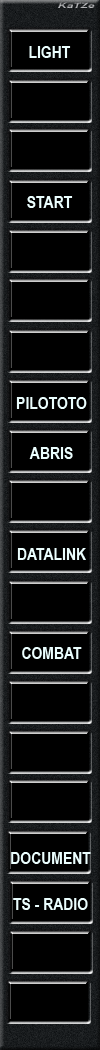
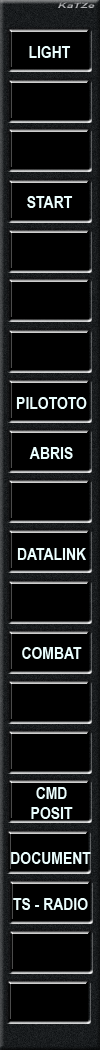
DC implementation + New Pilototo

Changed region(s): [[0.3, 0.7314, 0.66, 0.7924], [0.66, 0.7619, 0.72, 0.7924]]

diff --git a/Ka50-Pit.html b/Ka50-Pit.html
@@ -76,18 +76,18 @@
 	</map>
 
 	<!-- Voyants d'Alarme -->
-	<SPAN style="position: absolute; left: 6px; top: 32px; width: 90px; height: 80px">
+	<SPAN style="position: absolute; left: 4px; top: 25px; width: 90px; height: 80px">
 	<img src="images/emergency/E_AlarmOn.gif" width="90" height="80"  id="VE_Alarm" usemap="#alarm">
-	<map name="alarm">	<area shape="rect" coords="0,0,100,120" href="javascript:CmdSioc(144)"> </map>
+	<map name="alarm">	<area shape="rect" coords="0,0,100,120" href="javascript:CmdDCSRaw('51400101')"> </map>
 	</SPAN> 
 
 		<!-- Voyants de connection KaTZ-Link -->
 	<SPAN style="position: absolute; left: 10px; top: 380px">
-	<img src="images/emergency/z_Led-Rouge.gif" width="80" height="40" id="Led_Connect"> </SPAN>
+	<img src="images/emergency/z_Led-Rouge.png" width="80" height="40" id="Led_Connect"> </SPAN>
 	
 		<!-- Voyants de connection DCS Focus -->
 	<SPAN style="position: absolute; left: 10px; top: 690px">
-	<img src="images/emergency/z_Led-Verte.gif" width="80" height="40"  id="Led_DCS"> 	</SPAN>
+	<img src="images/emergency/z_Led-Bleu.png" width="80" height="40"  id="Led_DCS"> 	</SPAN>
 
 	<!-- Zone d'affichage de l'adresse IP -->
 	<SPAN style="position: absolute; left: 05px; top: 555px; width: 90px; height: 25px ; color:green ; text-align:center; font-size:80%" id="IP_Host"> </SPAN>
@@ -119,7 +119,7 @@
 		<area shape="rect" coords="10,620,90,680" href="javascript:menu_Toggle('Combat')">
 		<area shape="rect" coords="10,680,90,720" href="javascript:menu_Toggle('Vierge')">
 		<area shape="rect" coords="10,720,90,780" href="javascript:menu_Toggle('Vierge')">
-		<area shape="rect" coords="10,780,90,820" href="javascript:menu_Toggle('Vierge')">
+		<area shape="rect" coords="10,780,90,820" href="javascript:menu_Toggle('Stick')">
 		<area shape="rect" coords="10,820,90,880" href="javascript:menu_Toggle('Doc')">
 		<area shape="rect" coords="10,880,90,920" href="javascript:menu_Toggle('Radio_360')">
 		<area shape="rect" coords="10,920,90,980" href="javascript:menu_Toggle('Vierge')">
@@ -339,6 +339,34 @@
 	<img src="images/engine/FT_Aiguille_R.png" width="25" height="250" id="AIG_Fuel_R">
 	</SPAN>	
 	
+</div>
+
+<div id="Panel_Stick">
+
+	<img src="images/panel/Stick_Panel.png" width="300" height="300"  > 
+
+	<!-- Indic Stick -->
+	<SPAN style="position: absolute; left: 160px; top: 120px; width: 20px; height: 20px">
+	<img src="images/panel/Stick_posit.png" width="20" height="20" id="Position_Stick">
+	</SPAN>	
+
+	<!-- Indic Rudder -->
+	<SPAN style="position: absolute; left: 160px; top: 240px; width: 20px; height: 20px">
+	<img src="images/panel/Stick_posit.png" width="20" height="20" id="Position_Rudder">
+	</SPAN>	
+
+	<!-- Indic Cyclic -->
+	<SPAN style="position: absolute; left: 25px; top: 220px; width: 20px; height: 20px">
+	<img src="images/panel/Stick_posit.png" width="20" height="20" id="Position_Cyclic">
+	</SPAN>	
+
+	<!-- Valeur Input Pitch/Roll/Rudder/Cyclic -->
+	<SPAN style="position: absolute; left: 145px; top: 5px; width: 50px; height: 25px ; font-size:1.2em" id="PosData_Pitch"> </SPAN>
+	<SPAN style="position: absolute; left: 260px; top: 117px; width: 50px; height: 25px ; font-size:1.2em" id="PosData_Roll"> </SPAN>
+	<SPAN style="position: absolute; left: 145px; top: 275px; width: 50px; height: 25px ; font-size:1.2em" id="PosData_Rudder"> </SPAN>
+	<SPAN style="position: absolute; left: 5px; top: 240px; width: 50px; height: 25px ; font-size:1.2em" id="PosData_Cyclic"> </SPAN>
+		
+
 </div>
 
 

diff --git a/js/panel_pilototo.js b/js/panel_pilototo.js
@@ -33,4 +33,66 @@ function panel_pilototo_update(KaTZPit_data){
 	
 }
 
+function panel_pilototo_input(KaTZPit_data){
+
+
+	var Stick_Data = dataread_split_2(KaTZPit_data["Stick_Pos"])
+	var Rudder_Data = dataread_split_2(KaTZPit_data["Rudder_Pos"])
+
+	document.getElementById('PosData_Pitch').innerHTML = (Stick_Data[0]/10).toFixed(0)
+	document.getElementById('PosData_Roll').innerHTML = (Stick_Data[1]/10).toFixed(0)
+	document.getElementById('PosData_Rudder').innerHTML = (Rudder_Data[1]/10).toFixed(0)
+	document.getElementById('PosData_Cyclic').innerHTML = (Rudder_Data[0]/10).toFixed(0)
+
+	Translate_Cmd(Rudder_Data[1]/10,(Rudder_Data[0]/10))
+	Locate_Stick(Stick_Data[1]/10,Stick_Data[0]/10)
+
+}
+
+function Translate_Cmd(rudder,cyclic){
+	
+	var a_origine = 0
+	var a_gain = 1
+
+	// positif = Translation vers la droite
+	$("#Position_Rudder").css({
+	// fonction de base >> '-moz-transform':'translate(100px,0px)',
+	'-moz-transform':'translate('+(a_origine + a_gain * rudder)+'px,0px)',
+	'-webkit-transform':'translate('+(a_origine + a_gain * rudder)+'px,0px)',
+	'-ms-transform':'translate('+(a_origine + a_gain * rudder)+'px,0px)',
+
+	})
+
+	var c_gain = 2
+	
+	//  positif = Translation vers le bas , changement du signe DCS
+	$("#Position_Cyclic").css({
+	'-moz-transform':'translate(0px,'+(a_origine - c_gain * cyclic)+'px)',
+	'-webkit-transform':'translate(0px,'+(a_origine - c_gain * cyclic)+'px)',
+	'-ms-transform':'translate(0px,'+(a_origine - c_gain * cyclic)+'px)',
+
+	})
+}
+
+
+function Locate_Stick(roll,pitch){
+
+	var a_origine = 0
+	var r_gain = 1
+	var p_gain = 1
+
+	// positif = Translation vers la droite
+	$("#Position_Stick").css({
+	// fonction de base >> '-moz-transform':'translate(100px,0px)',
+	'-moz-transform':'translate('+(a_origine + r_gain * roll)+'px,'+(a_origine - p_gain * pitch)+'px)',
+	'-webkit-transform':'translate('+(a_origine + r_gain * roll)+'px,'+(a_origine - p_gain * pitch)+'px)',
+	'-ms-transform':'translate('+(a_origine + r_gain * roll)+'px,'+(a_origine - p_gain * pitch)+'px)',
+
+	})
+
+	
+
+}	
+
+
 	

diff --git a/js/pit_init.js b/js/pit_init.js
@@ -7,7 +7,7 @@ function panel_On_init(){
 
 	console.log("Initialisation des panels affichés")
 
-var Panel_On = { Init:0, Breakers:0, Combat:0, Light:1, Electric_DC:1, Electric_AC:0, APU:0, Oil:1, Start:1, Rotor:1, Analog_1:0, Analog_2:0, 
+var Panel_On = { Init:0, Breakers:0, Stick:0 , Combat:0, Light:1, Electric_DC:1, Electric_AC:0, APU:0, Oil:1, Start:1, Rotor:1, Analog_1:0, Analog_2:0, 
 	ARK_9:0, ARK_UD:0, Doppler:0, Radio_360:1, Fuel:0, Vierge:0, Navigation:0, Target:0, Weapon:1, UV26:1,
 	Pilototo:1, Datalink:1, Abris:1, PVI800:1, PVT800:1, Doc:0}
 
@@ -23,7 +23,7 @@ function paneldata_init(){
 		Clock:0, TimeMis:0, TimeFly:0, Shoot_time:99, Chrono:0,
 		IAS:0, TAS:8888, QNH:0, QFE:0, AltiRad_DX:50005000, AltiRad_FI:555, Mach:"---", Vario:0, Vari_unit:1,
 		AoA:0, Acc_G:0, Acc_Gmax:0, Acc_Gmin:0, 
-		Pitch:0, Bank:00, Yaw:0, ADI_FI:50005000, 
+		Pitch:0, Bank:00, Yaw:0, ADI_FI:50005000, Stick_Pos:50005000, Rudder_Pos:50005000,
 		Way:90, Route:360, Cap:0, WP_dist:0, WP_num:88, Bullseye:0, EUP:50005000,
 		Eng_rpm:50005000, Eng_temp:50005000, Power_L:0, Power_R:0, Power_X:0, COff:0,
 		RPM_Rot:0, Pitch_Rot:1, Eng_Oil_deg:50005000, GB_Oil_deg:50005000, Eng_Oil_pre:50005000, GB_Oil_pre:50005000,

diff --git a/js/menu.js b/js/menu.js
@@ -12,9 +12,9 @@ function menu_connection(KaTZPit_data){
 
 function menu_connection_led(flag){
 
-	if (flag == 0) {$("#Led_Connect").attr("src","images/emergency/z_Led-Rouge.gif")}
+	if (flag == 0) {$("#Led_Connect").attr("src","images/emergency/z_Led-Rouge.png")}
 	if (flag == 1) {$("#Led_Connect").attr("src","images/emergency/z_Led-Orange.gif")}
-	if (flag == 2) {$("#Led_Connect").attr("src","images/emergency/z_Led-Verte.gif")}
+	if (flag == 2) {$("#Led_Connect").attr("src","images/emergency/z_Led-Vert.png")}
 	
 }
 
@@ -84,6 +84,16 @@ function menu_Toggle(panel){
 	document.getElementById("Panel_Electric").style.display = "none" ; 
 	document.getElementById("Panel_Light").style.display = "none"
 
+	}
+
+	if (Panel_On["Stick"] == 0) {
+	document.getElementById("Panel_Stick").style.display = "none" ;
+	document.getElementById("Cadran_Fuel").style.display = "block" ;	
+	}
+	else {
+	document.getElementById("Panel_Stick").style.display = "block" ; 
+	document.getElementById("Cadran_Fuel").style.display = "none" ;
+	
 	}
 
 	

diff --git a/js/pit.js b/js/pit.js
@@ -66,6 +66,8 @@ function pit_main(){
 	if (Panel_On["Start"]==1){panel_fuel_update(KaTZPit_data) ; panel_electric_update(KaTZPit_data)} 
 	
 	if (Panel_On["Rotor"]==1){panel_instrument_rotor(KaTZPit_data)}
+
+	if (Panel_On["Stick"]==1){panel_pilototo_input(KaTZPit_data)}
 	
 	if (Panel_On["Oil"]==1){panel_oil_update(KaTZPit_data)}
 	

diff --git a/css/KA50-Pit.css b/css/KA50-Pit.css
@@ -68,6 +68,20 @@ p {
 
 }
 
+#Panel_Stick {
+
+	position: absolute;
+	top: 860px;
+	left: 1580px;
+	/* Dimension 300 x 300			              */
+	font-family:arial, sans-serif;
+	font-size:100%;
+	color:white;
+	background-color:transparent;
+	text-align: center; 
+
+}
+
 #Cadran_Vario {
 	position: absolute;
 	top: 020px;

diff --git a/js/panel_attitude.js b/js/panel_attitude.js
@@ -98,4 +98,3 @@ function Translate_Yaw(val){
 	})
 }
 
-	
